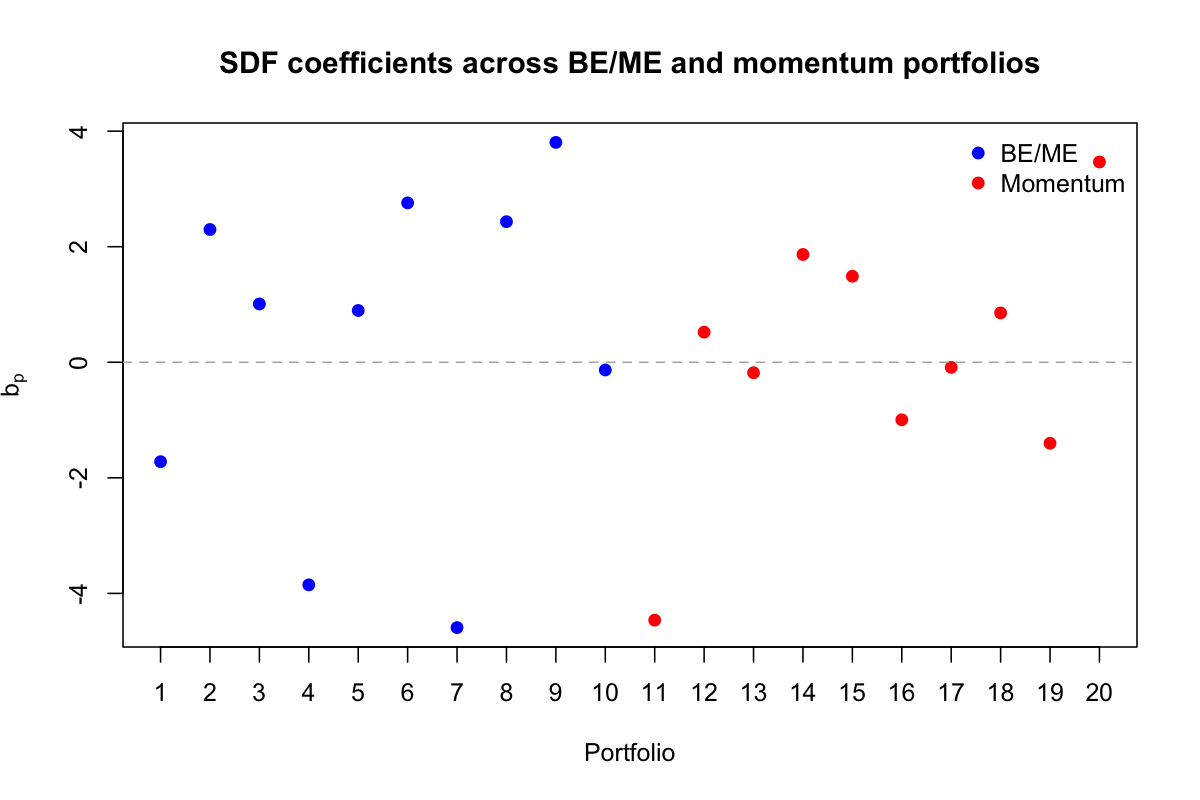
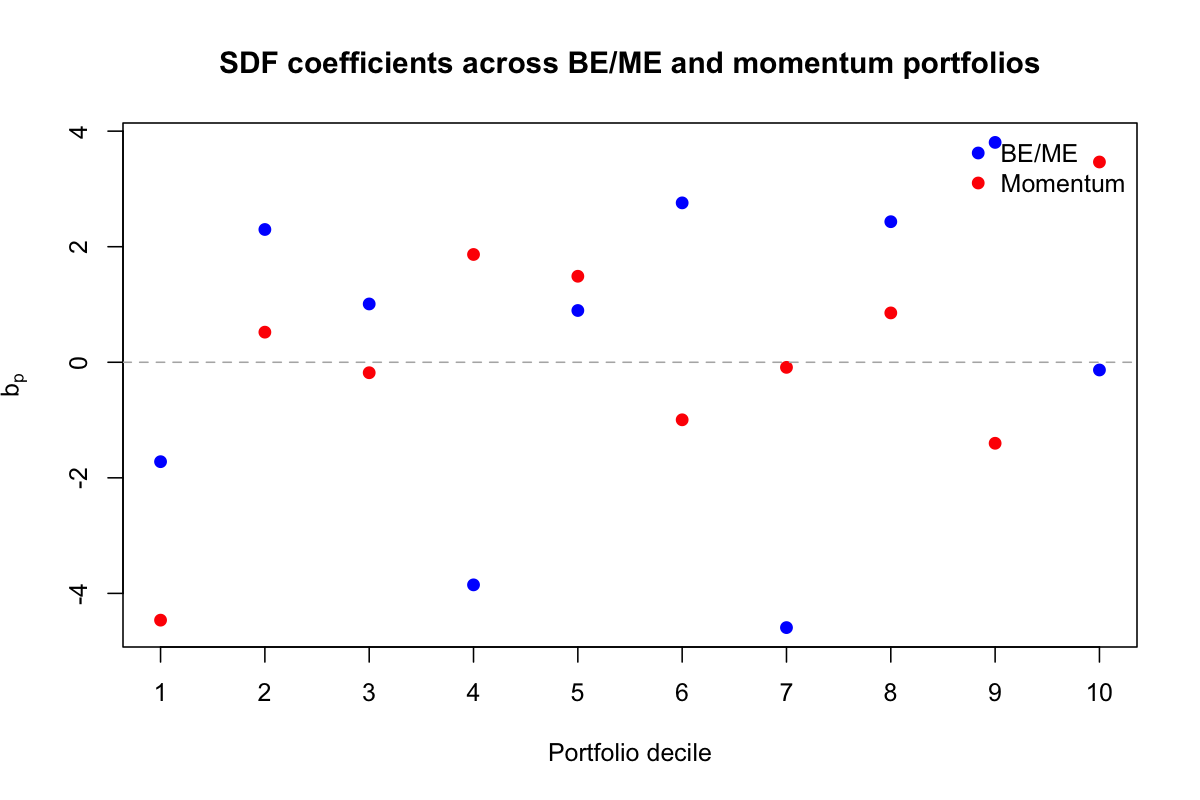
TP after: 2c

diff --git a/AI_INTERACTIONS.md b/AI_INTERACTIONS.md
@@ -75,3 +75,22 @@ This file is an append-only record maintained by the project-local `$tp` skill f
 - **Type of assistance:** empirical implementation; formatting/translation.
 - **Grouped minor subsequent requests:** No as of initial close; any valid later continuation will be appended below.
 
+## TP interaction `2c-2956d26` — `2026-10-24 10:59:57 -0400`
+
+- **Problem set item:** `2c`
+- **Substantive prompt (verbatim):**
+
+  ```text
+  I've updated my prompt to plot 10 decile portfolios
+  ```
+
+- **Purpose:** Implement the revised 2c plotting instruction so the ten BE/ME coefficients and ten momentum coefficients are overlaid at common decile positions 1 through 10 rather than displayed at portfolio positions 1 through 20.
+- **Git commit before interaction:** `2956d26de3dd336f9b6ca26f07289e49f0a480f7`
+- **Assistance provided:** Reviewed the revised student-authored plotting instruction and updated only the plotting block in `code/2c.R`. The code now uses x-axis values 1 through 10, plots the BE/ME coefficients in blue and momentum coefficients in red at the corresponding common decile positions, labels the x-axis as portfolio decile, and retains the existing legend and zero reference line. Reran the full script successfully, regenerated `figures/2c.png`, and visually confirmed that both ten-point series are overlaid on deciles 1 through 10. The empirical estimates and Sharpe ratios were unchanged: `a_2c` remained 1.09423434862 and the monthly Sharpe ratios remained 0.192030237105, 0.260269859385, and 0.306976136889 for BE/ME, momentum, and combined portfolios, respectively.
+- **Files inspected:** `.agents/skills/tp/SKILL.md`; `.agents/skills/tp/references/course-ai-policy.md`; `AI_INTERACTIONS.md`; `prompt/2c.md`; `code/2c.R`; `data/BE_ME.csv`; `data/10P_MOM.csv`; `data/RF.csv`; `figures/2c.png`.
+- **Files directly modified:** `prompt/2c.md` (trailing-whitespace removal only); `code/2c.R`; `figures/2c.png`; `AI_INTERACTIONS.md`.
+- **Errors, omissions, or ambiguities identified:** None unresolved. The later student-authored design instruction clearly superseded the earlier 1-through-20 plot layout while retaining all 20 coefficient estimates. One trailing space in the revised prompt was removed mechanically without changing its substantive wording.
+- **Substantive mathematical, economic, or empirical suggestions:** None. The overlaid ten-decile layout and color mapping were supplied by the student; the code changes were mechanical plotting implementation.
+- **Type of assistance:** empirical implementation; formatting/translation.
+- **Grouped minor subsequent requests:** No as of initial close; any valid later continuation will be appended below.
+

diff --git a/prompt/2c.md b/prompt/2c.md
@@ -11,4 +11,4 @@ Calculate the monthly Sharpe ratio of the xR* portfolios for the 10 BE_ME portfo
 
 ## Student-authored empirical design
 Re-estimate the xR* portfolios using the common January 1927–August 2026 sample before calculating their monthly Sharpe ratios.
-Update the graph to plot portfolio deciles 1 to 10 only, overlay the 10 BE_ME and 10 MOM portfolios since they represent separate deciles. 
+Update the graph to plot portfolio deciles 1 to 10 only, overlay the 10 BE_ME and 10 MOM portfolios since they represent separate deciles.
